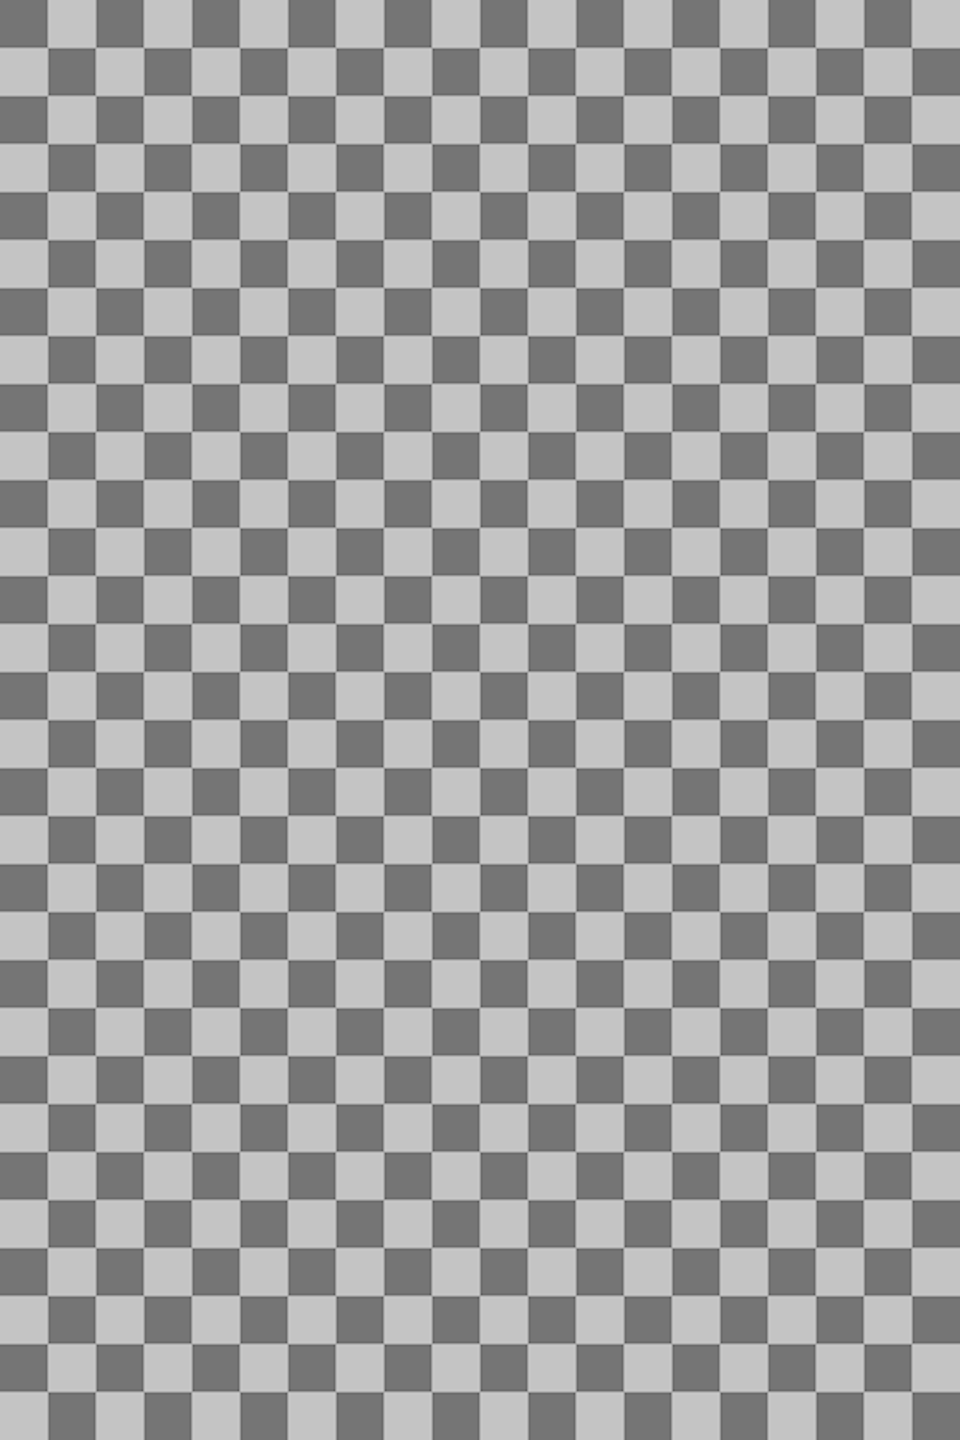
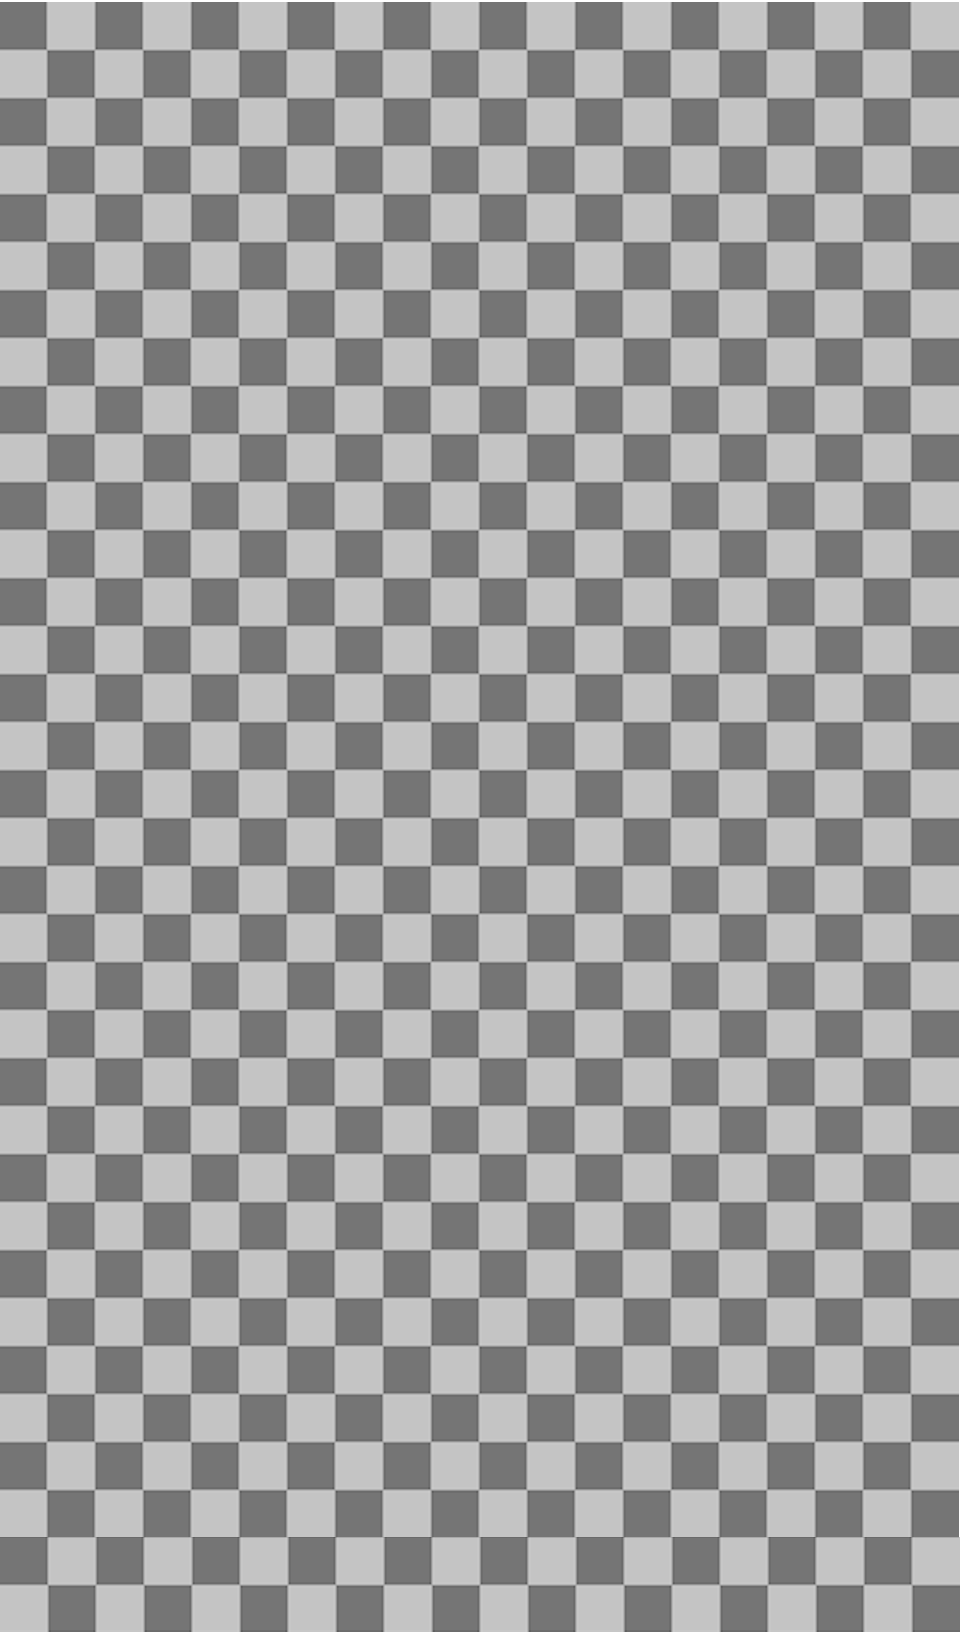
entend map area(bothside get 2tile height)

diff --git a/server/game/game.go b/server/game/game.go
@@ -17,7 +17,7 @@ const (
 
 const (
 	MapWidth   = 320
-	MapHeight  = 480
+	MapHeight  = 544
 	TileHeight = 16
 	CenterX    = MapWidth / 2
 	CenterY    = MapHeight / 2
@@ -31,10 +31,10 @@ type Area struct {
 }
 
 var (
-	Top       = &Area{0, 208, 0, 320}
-	Bottom    = &Area{240, 480, 0, 320}
-	LeftHole  = &Area{208, 240, 48, 64}
-	RightHole = &Area{208, 240, 256, 272}
+	Top       = &Area{0, 240, 0, 320}
+	Bottom    = &Area{272, 544, 0, 320}
+	LeftHole  = &Area{240, 272, 48, 64}
+	RightHole = &Area{240, 272, 256, 272}
 )
 var (
 	LeftHoleTL  = Vector2{LeftHole.L, LeftHole.T}
